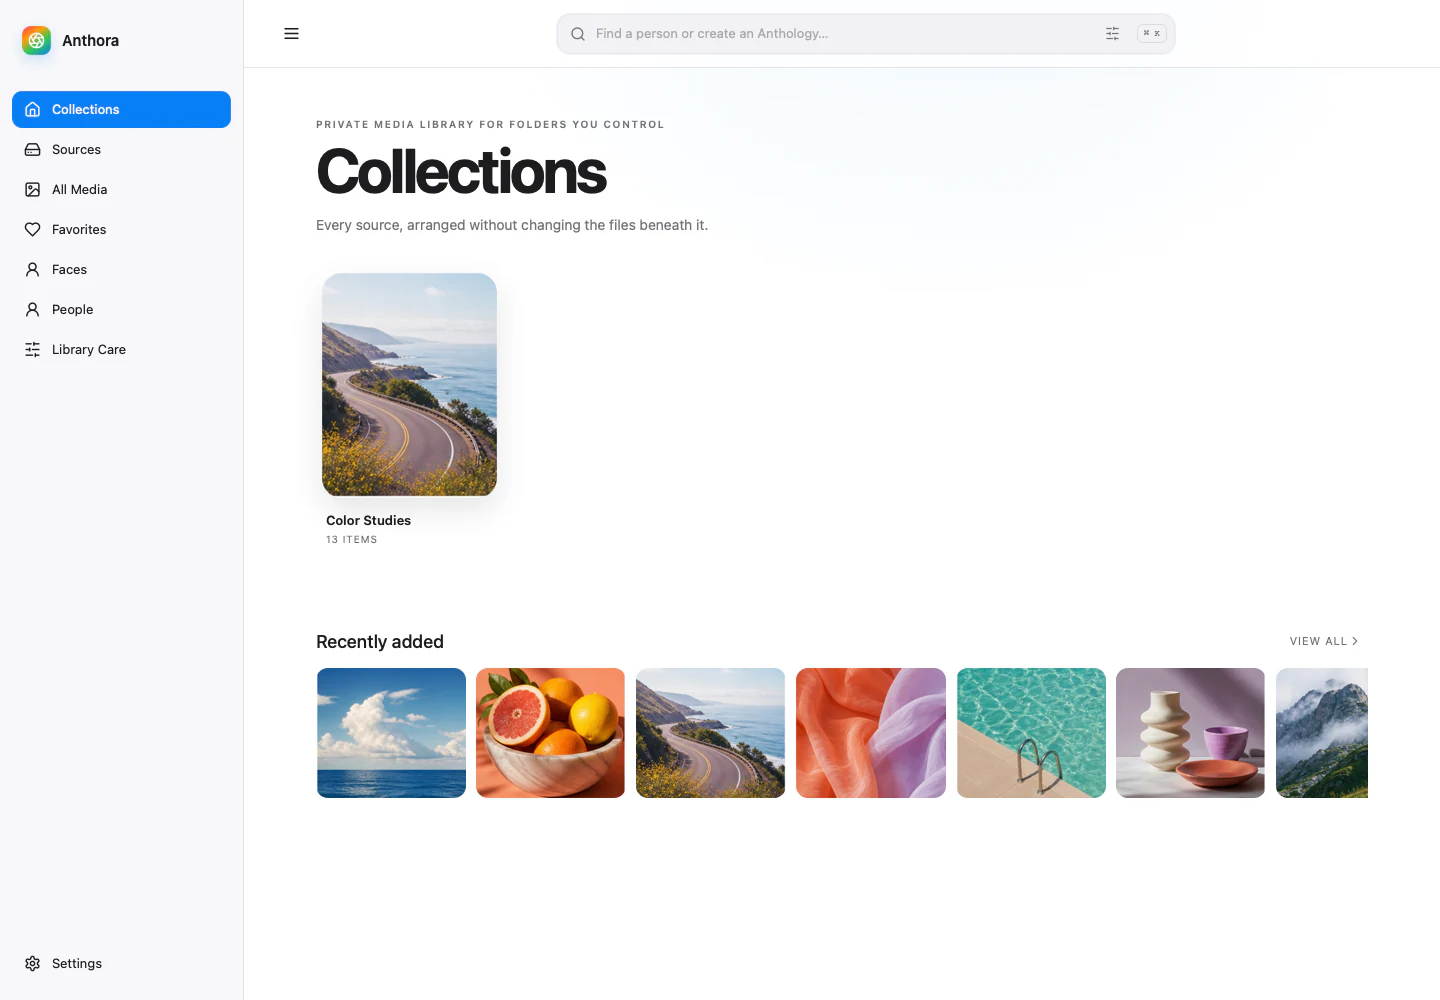
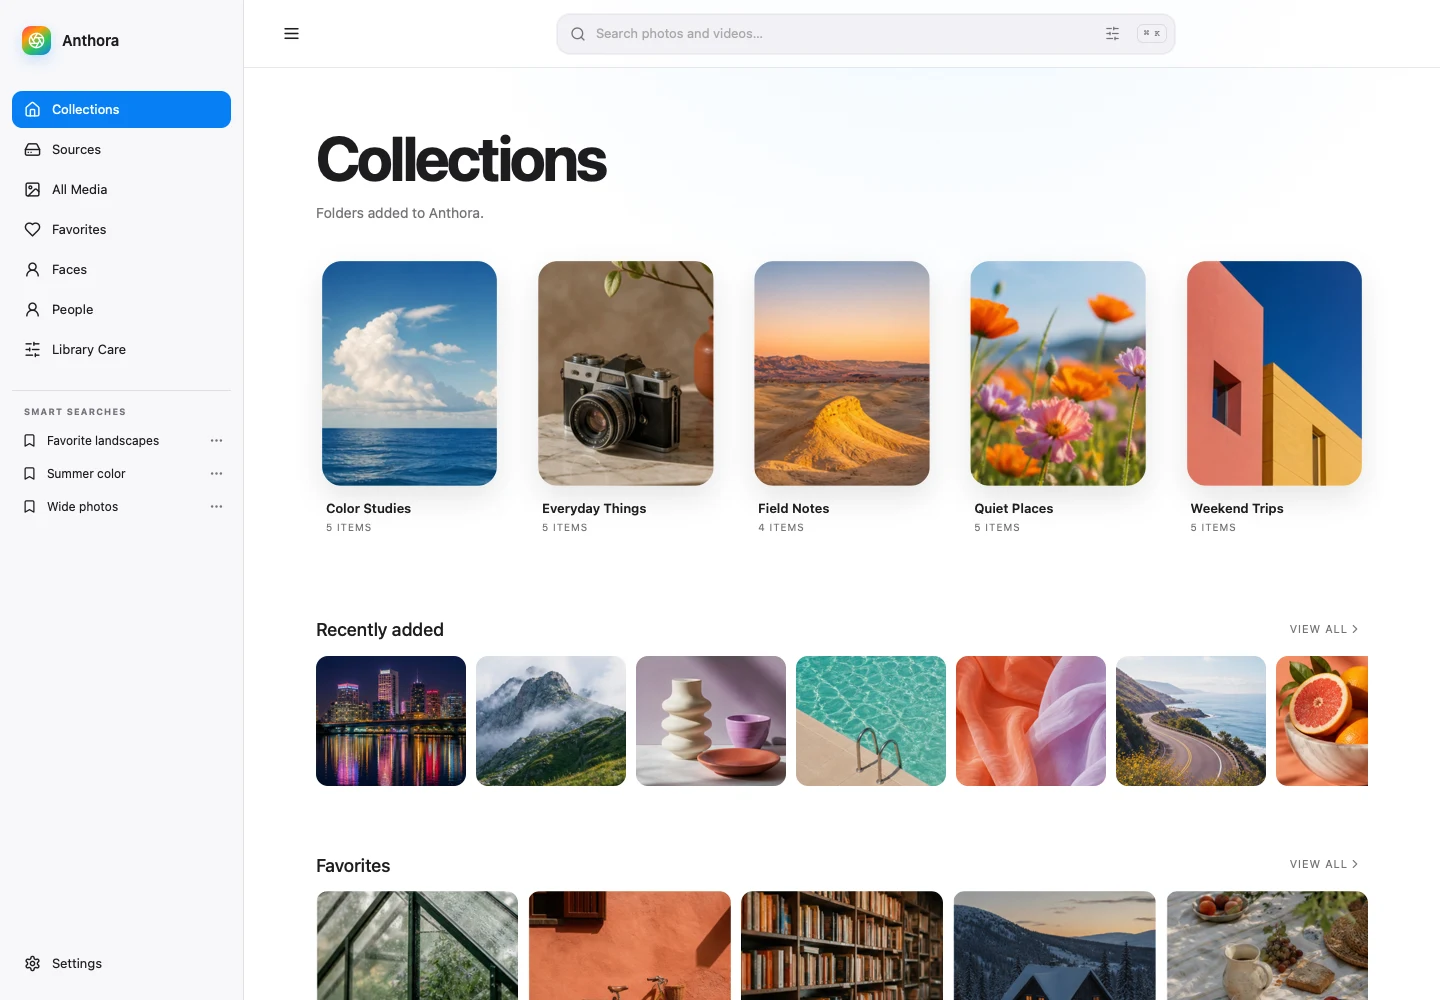
Remove Anthora eyebrow copy and refresh preview

diff --git a/anthora/index.html b/anthora/index.html
@@ -11,7 +11,7 @@
     <style>
       :root{color-scheme:light;--ink:#191b19;--muted:#686c68;--paper:#f2f0ea;--card:#fbfaf6;--line:rgba(25,27,25,.13);--blue:#d9e7f0;--blue-deep:#536d80;--peach:#efd9c8;--green:#dce5d9;--shadow:0 26px 80px rgba(38,42,40,.13)}
       *{box-sizing:border-box}html{scroll-behavior:smooth}body{margin:0;overflow-x:hidden;background:var(--paper);color:var(--ink);font:16px/1.6 Inter,ui-sans-serif,system-ui,-apple-system,BlinkMacSystemFont,"Segoe UI",sans-serif}a{color:inherit;text-decoration:none}img{display:block;max-width:100%}button{font:inherit}.shell{width:min(1240px,calc(100% - 48px));margin-inline:auto}.nav{min-height:72px;display:flex;align-items:center;justify-content:space-between;gap:24px}.site-header{position:sticky;top:0;z-index:20;border-bottom:1px solid var(--line);background:rgba(242,240,234,.87);backdrop-filter:blur(20px) saturate(130%)}.brand{display:flex;align-items:center;gap:10px;font-weight:820;letter-spacing:-.03em}.brand img{width:34px;height:34px;border-radius:10px}.nav-links{display:flex;gap:22px;color:var(--muted);font-size:.84rem;font-weight:720}.nav-links a:hover{color:var(--ink)}
-      .hero{padding:74px 0 32px}.hero-copy{display:grid;grid-template-columns:minmax(470px,.86fr) minmax(0,1.14fr);align-items:end;gap:32px 64px}.eyebrow{margin:0 0 18px;color:var(--blue-deep);font-size:.7rem;font-weight:850;letter-spacing:.16em;text-transform:uppercase}.title-row{display:flex;align-items:center;gap:18px}.title-row img{width:82px;height:82px;border-radius:22px;box-shadow:0 18px 42px rgba(72,89,100,.2)}h1,h2,h3{margin:0;line-height:.98;letter-spacing:-.05em;text-wrap:balance}h1{font-size:clamp(4.2rem,7vw,6.4rem);font-weight:780}.lead{max-width:650px;margin:0;color:#4f5551;font-size:clamp(1.15rem,2vw,1.5rem);line-height:1.5}.price{margin:26px 0 0;font-size:1rem;font-weight:800}.price span{margin-left:8px;color:var(--muted);font-weight:580}.actions{display:flex;flex-wrap:wrap;gap:10px;margin-top:28px}.button{display:inline-flex;min-height:48px;align-items:center;justify-content:center;padding:0 20px;border:1px solid var(--line);border-radius:999px;background:var(--card);font-size:.9rem;font-weight:780}.button.primary{border-color:var(--ink);background:var(--ink);color:#fff}.button.pending{cursor:default;opacity:.72}.release-note{max-width:590px;margin:14px 0 0;color:var(--muted);font-size:.82rem}.hero-window{position:relative;margin-top:62px}.hero-window:before{position:absolute;inset:-8% 8% 16%;z-index:-1;border-radius:50%;background:radial-gradient(circle,var(--blue),transparent 66%);content:""}.shot{overflow:hidden;border:1px solid var(--line);border-radius:26px;background:#fff;box-shadow:var(--shadow)}.shot img{width:100%}
+      .hero{padding:74px 0 32px}.hero-copy{display:grid;grid-template-columns:minmax(470px,.86fr) minmax(0,1.14fr);align-items:end;gap:32px 64px}.title-row{display:flex;align-items:center;gap:18px}.title-row img{width:82px;height:82px;border-radius:22px;box-shadow:0 18px 42px rgba(72,89,100,.2)}h1,h2,h3{margin:0;line-height:.98;letter-spacing:-.05em;text-wrap:balance}h1{font-size:clamp(4.2rem,7vw,6.4rem);font-weight:780}.lead{max-width:650px;margin:0;color:#4f5551;font-size:clamp(1.15rem,2vw,1.5rem);line-height:1.5}.price{margin:26px 0 0;font-size:1rem;font-weight:800}.price span{margin-left:8px;color:var(--muted);font-weight:580}.actions{display:flex;flex-wrap:wrap;gap:10px;margin-top:28px}.button{display:inline-flex;min-height:48px;align-items:center;justify-content:center;padding:0 20px;border:1px solid var(--line);border-radius:999px;background:var(--card);font-size:.9rem;font-weight:780}.button.primary{border-color:var(--ink);background:var(--ink);color:#fff}.button.pending{cursor:default;opacity:.72}.release-note{max-width:590px;margin:14px 0 0;color:var(--muted);font-size:.82rem}.hero-window{position:relative;margin-top:62px}.hero-window:before{position:absolute;inset:-8% 8% 16%;z-index:-1;border-radius:50%;background:radial-gradient(circle,var(--blue),transparent 66%);content:""}.shot{overflow:hidden;border:1px solid var(--line);border-radius:26px;background:#fff;box-shadow:var(--shadow)}.shot img{width:100%}
       .truth{padding:120px 0}.truth-head{display:grid;grid-template-columns:.78fr 1.22fr;gap:60px;align-items:start}.truth h2,.screens h2,.limits h2{font-size:clamp(3rem,5vw,5rem);font-weight:740}.truth-intro{max-width:660px;margin:4px 0 0;color:var(--muted);font-size:1.14rem}.facts{display:grid;grid-template-columns:repeat(4,minmax(0,1fr));gap:12px;margin-top:48px}.fact{min-height:220px;padding:26px;border:1px solid var(--line);border-radius:22px;background:var(--card)}.fact:nth-child(2){background:var(--blue)}.fact:nth-child(3){background:var(--peach)}.fact:nth-child(4){background:var(--green)}.fact span{display:block;color:var(--muted);font-size:.68rem;font-weight:820;letter-spacing:.13em;text-transform:uppercase}.fact strong{display:block;margin-top:66px;font-size:1.35rem;line-height:1.18;letter-spacing:-.035em}.fact p{margin:10px 0 0;color:#565b57;font-size:.88rem;line-height:1.5}
       .screens{padding:110px 0;background:#202320;color:#f6f5f0}.screens-head{display:grid;grid-template-columns:1fr minmax(300px,480px);gap:50px;align-items:end}.screens-head p{margin:0;color:#b8bcb8}.screen-grid{display:grid;grid-template-columns:1.12fr .88fr;gap:18px;margin-top:44px}.screen-card{overflow:hidden;border:1px solid rgba(255,255,255,.14);border-radius:22px;background:#111311}.screen-card img{width:100%;height:100%;object-fit:cover}.screen-card.large{grid-row:span 2}.screen-label{display:flex;align-items:center;justify-content:space-between;padding:15px 17px;color:#c9ccc8;font-size:.78rem}.screen-label strong{color:#fff}.screen-card img+.screen-label{border-top:1px solid rgba(255,255,255,.12)}
       .workflow{padding:120px 0}.workflow-grid{display:grid;grid-template-columns:repeat(3,minmax(0,1fr));gap:16px}.workflow-card{padding:30px;border-top:1px solid var(--ink);background:rgba(255,255,255,.28)}.workflow-card b{display:block;margin-bottom:70px;color:var(--blue-deep);font-size:.74rem}.workflow-card h3{font-size:1.75rem}.workflow-card p{margin:13px 0 0;color:var(--muted)}
@@ -24,15 +24,15 @@
   <body>
     <header class="site-header"><div class="shell nav"><a class="brand" href="/"><img src="/assets/product-icons/anthora.png" alt="">Good Burrow</a><nav class="nav-links" aria-label="Main navigation"><a href="#features">Features</a><a href="#screens">Screens</a><a href="#before-buying">Before buying</a></nav></div></header>
     <main>
-      <section class="hero"><div class="shell"><div class="hero-copy"><div><p class="eyebrow">Private media library for Mac</p><div class="title-row"><img src="/assets/product-icons/anthora.png" alt="Anthora app icon"><h1>Anthora</h1></div></div><div><p class="lead">Browse, search, and review photos and videos already stored in folders on your Mac. Originals stay where they are, and local mode needs no account or upload.</p><p class="price">$29 one time <span>Apple silicon and macOS 14+</span></p><div class="actions"><span class="button primary pending" aria-disabled="true">Checkout opens after final approval</span><a class="button" href="#screens">See the actual app</a></div><p class="release-note">The release package is complete. The purchase button will appear only after checkout, download delivery, and a real install test have passed.</p></div></div><div class="hero-window"><div class="shot"><img src="/anthora/assets/collections.webp" alt="Anthora showing media folders in a bright local library"></div></div></div></section>
+      <section class="hero"><div class="shell"><div class="hero-copy"><div><div class="title-row"><img src="/assets/product-icons/anthora.png" alt="Anthora app icon"><h1>Anthora</h1></div></div><div><p class="lead">Browse, search, and review photos and videos stored in folders on your Mac. Anthora reads the folders you select. Local mode requires no account or upload.</p><p class="price">$29 one time <span>Apple silicon and macOS 14+</span></p><div class="actions"><span class="button primary pending" aria-disabled="true">Checkout opens after final approval</span><a class="button" href="#screens">See the actual app</a></div><p class="release-note">The release package is complete. The purchase button will appear after the final visual review and checkout setup.</p></div></div><div class="hero-window"><div class="shot"><img src="/anthora/assets/collections.webp" alt="Anthora showing media folders in a bright local library"></div></div></div></section>
 
-      <section class="truth" id="features"><div class="shell"><div class="truth-head"><div><p class="eyebrow">What it does</p><h2>Your folders become a visual library.</h2></div><p class="truth-intro">Choose a folder on your Mac, external drive, or mounted network share. Anthora builds local previews and a searchable index while the files remain in their current locations.</p></div><div class="facts"><article class="fact"><span>Browse</span><strong>Photos and videos in one fast gallery</strong><p>Open full-size images, play videos, and reveal the original file in Finder.</p></article><article class="fact"><span>Search</span><strong>Find files, visible text, people, dates, and subjects</strong><p>Search uses the local index and included on-device analysis.</p></article><article class="fact"><span>Review</span><strong>Compare likely duplicates before acting</strong><p>Review exact copies, resized images, and videos with sampled shared footage.</p></article><article class="fact"><span>Control</span><strong>No automatic deletion decisions</strong><p>Items move through a review-first, recoverable cleanup process.</p></article></div></div></section>
+      <section class="truth" id="features"><div class="shell"><div class="truth-head"><div><h2>Browse folders as a media library.</h2></div><p class="truth-intro">Choose a folder on your Mac, external drive, or mounted network share. Anthora builds local previews and a searchable index. It does not move the source files.</p></div><div class="facts"><article class="fact"><span>Browse</span><strong>Photos and videos in one gallery</strong><p>Open full-size images, play videos, and reveal the original file in Finder.</p></article><article class="fact"><span>Search</span><strong>Find files, visible text, people, dates, and subjects</strong><p>Search uses the local index and included on-device analysis.</p></article><article class="fact"><span>Review</span><strong>Compare likely duplicates before acting</strong><p>Review exact copies, resized images, and videos with sampled shared footage.</p></article><article class="fact"><span>Control</span><strong>Decide what to remove</strong><p>Anthora does not delete a detected match automatically. Removed items remain recoverable in Anthora for 30 days.</p></article></div></div></section>
 
       <section class="screens" id="screens"><div class="shell"><div class="screens-head"><h2>The actual release interface.</h2><p>These screens come from Anthora 1.0.0 using fictional sample media. No private library content is shown.</p></div><div class="screen-grid"><figure class="screen-card large"><img src="/anthora/assets/library.webp" alt="Anthora all-media gallery"><figcaption class="screen-label"><strong>All media</strong><span>Paged, virtualized gallery</span></figcaption></figure><figure class="screen-card"><img src="/anthora/assets/search.webp" alt="Anthora search results"><figcaption class="screen-label"><strong>Search</strong><span>Local results</span></figcaption></figure><figure class="screen-card"><img src="/anthora/assets/viewer.webp" alt="Anthora full-size media viewer"><figcaption class="screen-label"><strong>Viewer</strong><span>Images and video</span></figcaption></figure><figure class="screen-card"><img src="/anthora/assets/duplicates.webp" alt="Anthora duplicate review"><figcaption class="screen-label"><strong>Duplicate review</strong><span>Human decision required</span></figcaption></figure><figure class="screen-card"><img src="/anthora/assets/care.webp" alt="Anthora Library Care screen"><figcaption class="screen-label"><strong>Library Care</strong><span>Review queues and recovery</span></figcaption></figure></div></div></section>
 
       <section class="workflow"><div class="shell"><div class="workflow-grid"><article class="workflow-card"><b>01</b><h3>Choose a folder</h3><p>Pick ordinary media folders. Anthora does not open the Photos.app library directly.</p></article><article class="workflow-card"><b>02</b><h3>Browse while it scans</h3><p>Indexing writes in bounded batches. New media appears as it is found, and you can stop a scan without discarding indexed items.</p></article><article class="workflow-card"><b>03</b><h3>Review before cleanup</h3><p>Matches and quality signals are suggestions. You decide what stays and what enters Recently Deleted.</p></article></div></div></section>
 
-      <section class="limits" id="before-buying"><div class="shell limits-grid"><div><p class="eyebrow">Before buying</p><h2>Clear limits. No hidden service.</h2></div><div><ul class="plain-list"><li><strong>System</strong><span>Requires an Apple silicon Mac, M1 or newer, running macOS 14 Sonoma or later.</span></li><li><strong>Media sources</strong><span>Works with readable folders, external drives, and mounted network shares. Cloud-only placeholders must be downloaded first.</span></li><li><strong>Formats</strong><span>Images: JPG, JPEG, PNG, HEIC, HEIF, WebP, GIF, TIFF, and TIF. Videos: MOV, MP4, and M4V.</span></li><li><strong>Photos.app</strong><span>Anthora does not read a Photos.app library directly.</span></li><li><strong>First launch</strong><span>This direct download is not notarized by Apple. The included guide explains the one-time macOS Open confirmation. Gatekeeper does not need to be disabled.</span></li><li><strong>Analysis limits</strong><span>Automatic matches and quality signals require review. Semantic language search, best-shot grouping, and crop-aware matching are not included in version 1.0.0.</span></li><li><strong>Purchase</strong><span>The purchase includes the current app and self-service documentation. Setup, customization, consultations, phone service, response times, and guaranteed future updates are not included.</span></li><li><strong>Refunds</strong><span>Downloaded software is normally final except where required by law or the seller of record's checkout policy.</span></li></ul><aside class="server-note"><h3>Private server mode is optional.</h3><p>Local use is the default. Advanced users can run the included server on a Mac they control and connect through a private network such as Tailscale. Good Burrow does not host the server or provide network setup.</p></aside></div></div></section>
+      <section class="limits" id="before-buying"><div class="shell limits-grid"><div><h2>Before buying</h2></div><div><ul class="plain-list"><li><strong>System</strong><span>Requires an Apple silicon Mac, M1 or newer, running macOS 14 Sonoma or later.</span></li><li><strong>Media sources</strong><span>Works with readable folders, external drives, and mounted network shares. Cloud-only placeholders must be downloaded first.</span></li><li><strong>Formats</strong><span>Images: JPG, JPEG, PNG, HEIC, HEIF, WebP, GIF, TIFF, and TIF. Videos: MOV, MP4, and M4V.</span></li><li><strong>Photos.app</strong><span>Anthora does not read a Photos.app library directly.</span></li><li><strong>First launch</strong><span>This direct download is not notarized by Apple. The included guide explains the one-time macOS Open confirmation. Gatekeeper does not need to be disabled.</span></li><li><strong>Analysis limits</strong><span>Automatic matches and quality signals require review. Semantic language search, best-shot grouping, and crop-aware matching are not included in version 1.0.0.</span></li><li><strong>Purchase</strong><span>The purchase includes the current app and self-service documentation. Setup, customization, consultations, phone service, response times, and guaranteed future updates are not included.</span></li><li><strong>Refunds</strong><span>Downloaded software is normally final except where required by law or the seller of record's checkout policy.</span></li></ul><aside class="server-note"><h3>Private server mode is optional.</h3><p>Local use is the default. Advanced users can run the included server on a Mac they control and connect through a private network such as Tailscale. Good Burrow does not host the server or provide network setup.</p></aside></div></div></section>
 
       <section class="final"><div class="shell"><div class="final-box"><div><h2>One Mac app. No subscription.</h2><p>$29 one time when checkout opens.</p></div><span class="button primary pending" aria-disabled="true">Awaiting final approval</span></div></div></section>
     </main>
